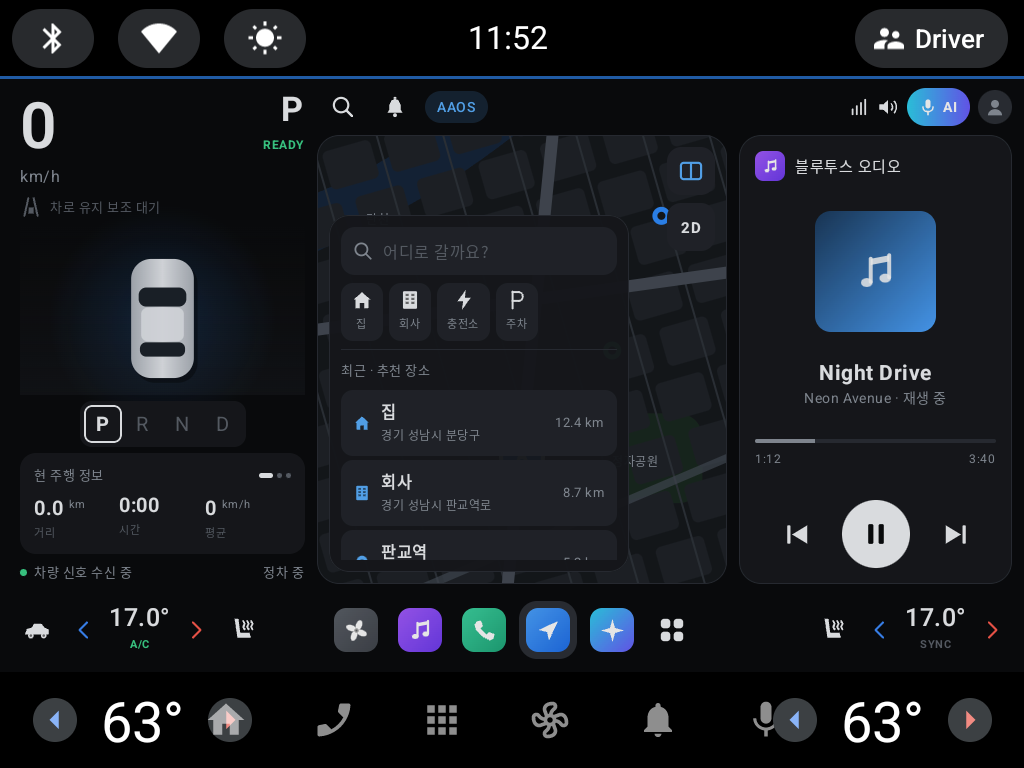
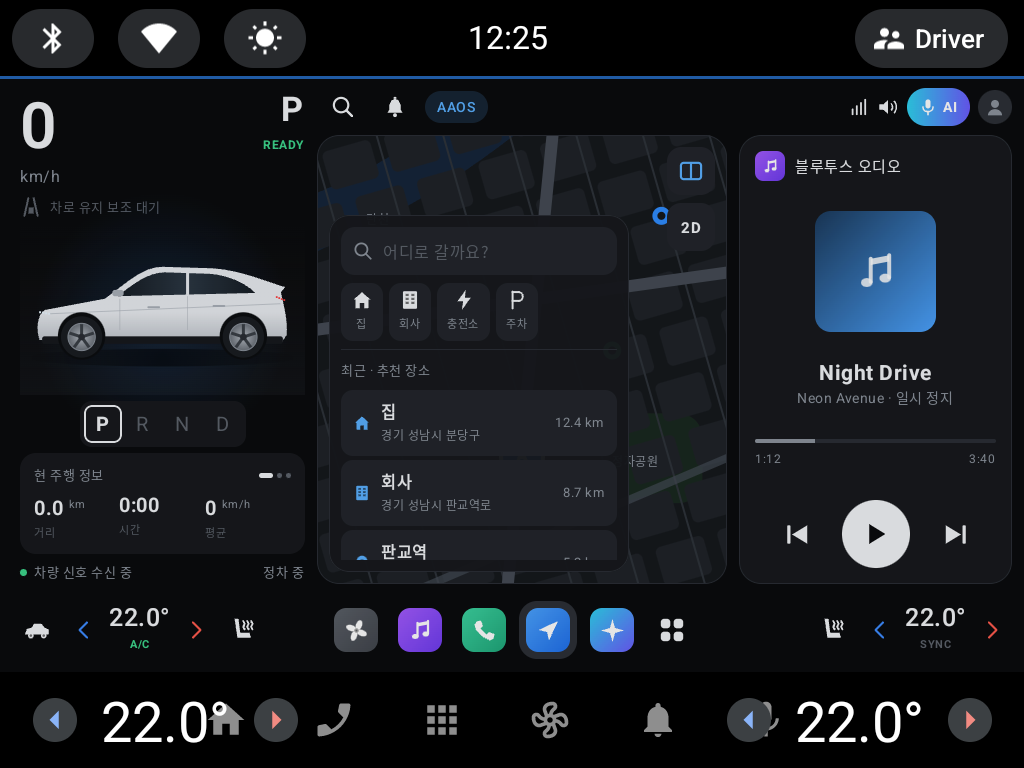
내 차 그림을 아이오닉 3 참고 일러스트로, 에뮬레이터 공조를 태블릿과 같게 (22.0°C, 섭씨)
- ui/CarArt.kt: 공개 제원 비율로 그린 옆모습(P)·윗모습(D/R), 픽셀 조명, 모스 부호 점
- tools/emulator_defaults.py: 운전석·조수석 22.0°C, SystemUI 표시 단위 섭씨
- spike 테스트가 화씨 표시를 가정하던 것을 표시 단위를 읽어 계산하게 수정 (섭씨·화씨 모두 통과)

diff --git a/ivi-app/app/src/main/java/dev/opencabin/ivi/ui/CarArt.kt b/ivi-app/app/src/main/java/dev/opencabin/ivi/ui/CarArt.kt
@@ -1,0 +1,158 @@
+package dev.opencabin.ivi.ui
+
+import androidx.compose.ui.geometry.CornerRadius
+import androidx.compose.ui.geometry.Offset
+import androidx.compose.ui.geometry.Size
+import androidx.compose.ui.graphics.Brush
+import androidx.compose.ui.graphics.Color
+import androidx.compose.ui.graphics.Path
+import androidx.compose.ui.graphics.drawscope.DrawScope
+import androidx.compose.ui.graphics.drawscope.Stroke
+import androidx.compose.ui.graphics.drawscope.rotate
+
+/*
+ * 내 차 그림: 소형 전기 해치백 (현대 아이오닉 3 공개 제원·디자인 참고, 사진·제조사 이미지 파일은 쓰지 않고 직접 그린다).
+ *   제원: 길이 4,155 · 폭 1,800 · 높이 1,505 · 휠베이스 2,680 mm (19인치 휠 225/45 R19 → 바퀴 지름 약 685 mm)
+ *   특징: 앞에서 뒤까지 곧게 이어지다 리어 스포일러로 떨어지는 '에어로 해치' 지붕선,
+ *         앞·뒤 픽셀 조명, 엠블럼 자리의 점 4개(모스 부호 H), 넓은 유리 지붕
+ * 좌표는 차 길이 L 에 대한 비율로 둔다 (그래서 어느 크기로도 같은 비율).
+ */
+
+private const val LENGTH_MM = 4155f
+private const val WIDTH_RATIO = 1800f / LENGTH_MM
+private const val HEIGHT_RATIO = 1505f / LENGTH_MM
+private const val AXLE = (LENGTH_MM - 2680f) / 2f / LENGTH_MM // 앞(뒤) 차축 위치 ≈ 0.177
+private const val WHEEL_R = 685f / 2f / LENGTH_MM
+
+private val Glass = Color(0xFF141A21)
+private val PixelWhite = Color(0xFFEAF6FF)
+private val PixelRed = Color(0xFFFF3B3B)
+
+/**
+ * 위에서 본 내 차 (앞이 위). (cx, cy) 는 차 중심, length 는 화면에서의 차 길이.
+ * braking=true 면(후진 등) 뒤 픽셀 조명을 밝게 그린다.
+ */
+fun DrawScope.ioniq3Top(cx: Float, cy: Float, length: Float, body: Color, shade: Color, braking: Boolean = false) {
+    val l = length
+    val w = l * WIDTH_RATIO
+    val left = cx - w / 2
+    val top = cy - l / 2
+    fun at(fx: Float, fy: Float) = Offset(left + w * fx, top + l * fy)
+
+    // 그림자 · 바퀴 (차체 밖으로 살짝 보인다)
+    drawRoundRect(Color.Black.copy(alpha = 0.4f), Offset(left + w * 0.05f, top + l * 0.02f), Size(w, l), CornerRadius(w * 0.3f))
+    listOf(AXLE, 1f - AXLE).forEach { fy ->
+        listOf(-0.04f, 0.88f).forEach { fx ->
+            drawRoundRect(Color(0xFF0D0F12), at(fx, fy - 0.07f), Size(w * 0.16f, l * 0.14f), CornerRadius(w * 0.05f))
+        }
+    }
+    // 차체: 앞은 둥글고 뒤는 각진 해치
+    val bodyPath = Path().apply {
+        moveTo(left + w * 0.18f, top)
+        quadraticBezierTo(left + w * 0.5f, top - l * 0.012f, left + w * 0.82f, top)
+        quadraticBezierTo(left + w, top + l * 0.02f, left + w, top + l * 0.14f)
+        lineTo(left + w, top + l * 0.93f)
+        quadraticBezierTo(left + w, top + l, left + w * 0.86f, top + l)
+        lineTo(left + w * 0.14f, top + l)
+        quadraticBezierTo(left, top + l, left, top + l * 0.93f)
+        lineTo(left, top + l * 0.14f)
+        quadraticBezierTo(left, top + l * 0.02f, left + w * 0.18f, top)
+        close()
+    }
+    drawPath(bodyPath, Brush.horizontalGradient(listOf(shade, body, body, shade), startX = left, endX = left + w))
+    // 사이드 미러
+    drawRoundRect(shade, at(-0.10f, 0.285f), Size(w * 0.13f, l * 0.035f), CornerRadius(w * 0.04f))
+    drawRoundRect(shade, at(0.97f, 0.285f), Size(w * 0.13f, l * 0.035f), CornerRadius(w * 0.04f))
+    // 앞 유리 → 넓은 유리 지붕 → 뒤 유리 (하나로 이어진 어두운 면, 가운데 지붕 골조)
+    val glass = Path().apply {
+        moveTo(at(0.14f, 0.36f).x, at(0.14f, 0.36f).y)
+        quadraticBezierTo(at(0.5f, 0.24f).x, at(0.5f, 0.24f).y, at(0.86f, 0.36f).x, at(0.86f, 0.36f).y)
+        lineTo(at(0.88f, 0.78f).x, at(0.88f, 0.78f).y)
+        quadraticBezierTo(at(0.5f, 0.84f).x, at(0.5f, 0.84f).y, at(0.12f, 0.78f).x, at(0.12f, 0.78f).y)
+        close()
+    }
+    drawPath(glass, Brush.verticalGradient(listOf(Glass, Color(0xFF26313C), Glass), startY = top + l * 0.3f, endY = top + l * 0.82f))
+    drawLine(body.copy(alpha = 0.55f), at(0.13f, 0.40f), at(0.87f, 0.40f), strokeWidth = l * 0.012f)
+    drawLine(body.copy(alpha = 0.55f), at(0.12f, 0.62f), at(0.88f, 0.62f), strokeWidth = l * 0.010f)
+    // 리어 스포일러 끝선
+    drawLine(shade, at(0.10f, 0.865f), at(0.90f, 0.865f), strokeWidth = l * 0.012f)
+    // 앞 픽셀 조명 + 가운데 점 4개 (모스 부호 H)
+    pixelRow(at(0.08f, 0.012f), w * 0.84f, l * 0.018f, 12, PixelWhite)
+    repeat(4) { i -> drawCircle(PixelWhite.copy(alpha = 0.9f), l * 0.006f, at(0.41f + i * 0.06f, 0.06f)) }
+    // 뒤 픽셀 조명
+    pixelRow(at(0.08f, 0.968f), w * 0.84f, l * 0.018f, 12, if (braking) PixelRed else PixelRed.copy(alpha = 0.65f))
+}
+
+/** 옆에서 본 내 차 (앞이 왼쪽). 정차(P) 화면에서 크게 보여 준다. (cx, groundY) 는 차 가운데 아래(바닥), length 는 차 길이. */
+fun DrawScope.ioniq3Side(cx: Float, groundY: Float, length: Float, body: Color, shade: Color) {
+    val l = length
+    val x0 = cx - l / 2
+    fun p(fx: Float, fy: Float) = Offset(x0 + l * fx, groundY - l * fy) // fy: 바닥에서 위로 (L 비율)
+    val roof = HEIGHT_RATIO
+
+    // 바닥 그림자
+    drawOval(Brush.radialGradient(listOf(Color.Black.copy(alpha = 0.55f), Color.Transparent), center = p(0.5f, 0f), radius = l * 0.55f),
+        topLeft = p(-0.04f, 0.035f), size = Size(l * 1.08f, l * 0.07f))
+
+    // 차체 실루엣: 짧은 앞, 곧은 지붕선, 스포일러로 떨어지는 뒤
+    val bodyPath = Path().apply {
+        moveTo(p(0.01f, 0.07f).x, p(0.01f, 0.07f).y)
+        cubicTo(p(-0.005f, 0.11f).x, p(-0.005f, 0.11f).y, p(0.0f, 0.17f).x, p(0.0f, 0.17f).y, p(0.03f, 0.19f).x, p(0.03f, 0.19f).y)
+        lineTo(p(0.27f, 0.235f).x, p(0.27f, 0.235f).y) // 보닛 끝 (앞 유리 시작)
+        cubicTo(p(0.36f, 0.30f).x, p(0.36f, 0.30f).y, p(0.42f, roof).x, p(0.42f, roof).y, p(0.50f, roof).x, p(0.50f, roof).y)
+        lineTo(p(0.70f, roof - 0.006f).x, p(0.70f, roof - 0.006f).y) // 곧은 지붕
+        cubicTo(p(0.80f, roof - 0.012f).x, p(0.80f, roof - 0.012f).y, p(0.90f, 0.31f).x, p(0.90f, 0.31f).y, p(0.975f, 0.285f).x, p(0.975f, 0.285f).y) // 스포일러로 떨어지는 지붕
+        lineTo(p(0.99f, 0.282f).x, p(0.99f, 0.282f).y) // 스포일러 끝
+        lineTo(p(0.972f, 0.262f).x, p(0.972f, 0.262f).y)
+        cubicTo(p(0.985f, 0.20f).x, p(0.985f, 0.20f).y, p(1.0f, 0.15f).x, p(1.0f, 0.15f).y, p(0.995f, 0.09f).x, p(0.995f, 0.09f).y)
+        lineTo(p(0.975f, 0.06f).x, p(0.975f, 0.06f).y)
+        close()
+    }
+    drawPath(bodyPath, Brush.verticalGradient(listOf(body, body, shade), startY = groundY - l * roof, endY = groundY))
+    // 아래 검은 하단 (휠 아치 · 사이드 실)
+    drawRoundRect(Color(0xFF16191D), p(0.02f, 0.085f), Size(l * 0.96f, l * 0.03f), CornerRadius(l * 0.01f))
+
+    // 옆 유리 (B 필러로 나눔)
+    val window = Path().apply {
+        moveTo(p(0.32f, 0.245f).x, p(0.32f, 0.245f).y)
+        cubicTo(p(0.38f, 0.29f).x, p(0.38f, 0.29f).y, p(0.44f, roof - 0.022f).x, p(0.44f, roof - 0.022f).y, p(0.51f, roof - 0.022f).x, p(0.51f, roof - 0.022f).y)
+        lineTo(p(0.69f, roof - 0.028f).x, p(0.69f, roof - 0.028f).y)
+        cubicTo(p(0.77f, roof - 0.034f).x, p(0.77f, roof - 0.034f).y, p(0.84f, 0.29f).x, p(0.84f, 0.29f).y, p(0.87f, 0.258f).x, p(0.87f, 0.258f).y)
+        lineTo(p(0.32f, 0.245f).x, p(0.32f, 0.245f).y)
+        close()
+    }
+    drawPath(window, Brush.horizontalGradient(listOf(Glass, Color(0xFF2B3743), Glass), startX = x0 + l * 0.3f, endX = x0 + l * 0.9f))
+    drawLine(body, p(0.60f, roof - 0.02f), p(0.60f, 0.25f), strokeWidth = l * 0.012f)
+    // 문 경계 · 손잡이 · 허리선
+    drawLine(shade.copy(alpha = 0.7f), p(0.33f, 0.235f), p(0.33f, 0.11f), strokeWidth = l * 0.003f)
+    drawLine(shade.copy(alpha = 0.7f), p(0.60f, 0.245f), p(0.60f, 0.11f), strokeWidth = l * 0.003f)
+    drawLine(shade.copy(alpha = 0.8f), p(0.05f, 0.175f), p(0.97f, 0.215f), strokeWidth = l * 0.003f)
+    drawRoundRect(shade, p(0.44f, 0.205f), Size(l * 0.05f, l * 0.008f), CornerRadius(l * 0.004f))
+    drawRoundRect(shade, p(0.70f, 0.21f), Size(l * 0.05f, l * 0.008f), CornerRadius(l * 0.004f))
+    // 사이드 미러
+    drawRoundRect(shade, p(0.30f, 0.27f), Size(l * 0.045f, l * 0.025f), CornerRadius(l * 0.01f))
+
+    // 앞 픽셀 조명 · 뒤 픽셀 조명
+    repeat(4) { i -> drawRect(PixelWhite, p(0.008f + i * 0.012f, 0.185f - i * 0.002f), Size(l * 0.008f, l * 0.008f)) }
+    repeat(4) { i -> drawRect(PixelRed, p(0.952f + i * 0.01f, 0.245f - i * 0.004f), Size(l * 0.007f, l * 0.007f)) }
+
+    // 바퀴 (에어로 휠)
+    listOf(AXLE, 1f - AXLE).forEach { fx ->
+        val c = p(fx, WHEEL_R)
+        drawCircle(Color(0xFF0B0D10), l * (WHEEL_R + 0.012f), p(fx, WHEEL_R + 0.004f)) // 휠 아치 그늘
+        drawCircle(Color(0xFF1A1D21), l * WHEEL_R, c)
+        drawCircle(Brush.radialGradient(listOf(Color(0xFFB8BEC6), Color(0xFF6B7179)), center = c, radius = l * WHEEL_R * 0.66f), l * WHEEL_R * 0.66f, c)
+        repeat(5) { k ->
+            rotate(k * 72f, c) {
+                drawLine(Color(0xFF3A3F46), c, Offset(c.x, c.y - l * WHEEL_R * 0.62f), strokeWidth = l * 0.012f)
+            }
+        }
+        drawCircle(Color(0xFF2A2E34), l * WHEEL_R * 0.16f, c)
+        drawCircle(Color(0xFF8C939D), l * WHEEL_R * 0.66f, c, style = Stroke(l * 0.004f))
+    }
+}
+
+private fun DrawScope.pixelRow(start: Offset, width: Float, size: Float, count: Int, color: Color) {
+    val gap = (width - size * count) / (count - 1)
+    repeat(count) { i -> drawRect(color, Offset(start.x + i * (size + gap), start.y), Size(size, size)) }
+}

diff --git a/ivi-app/app/src/main/java/dev/opencabin/ivi/ui/Cluster.kt b/ivi-app/app/src/main/java/dev/opencabin/ivi/ui/Cluster.kt
@@ -212,12 +212,18 @@ private fun DrivingView(state: VehicleState, modifier: Modifier) {
             }
         }
 
-        val egoScale = if (state.gear == Gear.PARK) 0.22f else 0.15f
-        val egoY = if (state.gear == Gear.PARK) h * 0.55f else yAt(0.08f) - w * egoScale
+        // 내 차 (CarArt.kt): 정차(P)면 옆모습을 크게, 주행·후진이면 위에서 본 모습
+        val body = Color(0xFFE9ECF0)
+        val shade = Color(0xFFA9B0B9)
         if (state.gear == Gear.PARK) {
-            drawCircle(Brush.radialGradient(listOf(IviColors.Accent.copy(alpha = 0.18f), Color.Transparent), center = Offset(cx, egoY), radius = w * 0.4f), w * 0.4f, Offset(cx, egoY))
+            val length = minOf(w * 0.88f, h * 1.9f)
+            val ground = h * 0.5f + length * 0.19f
+            drawCircle(Brush.radialGradient(listOf(IviColors.Accent.copy(alpha = 0.16f), Color.Transparent), center = Offset(cx, ground - length * 0.15f), radius = w * 0.45f), w * 0.45f, Offset(cx, ground - length * 0.15f))
+            ioniq3Side(cx, ground, length, body, shade)
+        } else {
+            val length = w * 0.15f * 1.9f
+            ioniq3Top(cx, yAt(0.08f) - length / 2, length, body, shade, braking = state.gear == Gear.REVERSE)
         }
-        car(cx, egoY, w * egoScale, Color(0xFFE6E9EE), Color(0xFFAEB4BC))
     }
 }
 

diff --git a/ivi-tests/tests/test_spike_aaos.py b/ivi-tests/tests/test_spike_aaos.py
@@ -2,12 +2,14 @@
 
 자체 IVI 앱을 만들기 전에, AAOS 기본 SystemUI 의 하단 HVAC 바로
 '차량 신호 → UI', 'UI 조작 → 차량 신호', '속도·기어 → 주행 상태' 가 실제로 이어지는지 확인한다.
-화면 표시는 화씨(°F)라서 정수로 딱 떨어지는 섭씨 값(25.0 → 77°, 20.0 → 68°)을 쓴다.
+SystemUI 표시 단위는 VHAL 의 HVAC_TEMPERATURE_DISPLAY_UNITS 를 따른다. 에뮬레이터 기본은 화씨(25.0 → 77°)이고,
+7단계에서 태블릿과 같게 섭씨(25.0 → 25.0°)로 바꿔 쓰기도 해서, 기대 글자는 지금 표시 단위로 계산한다.
+화씨에서도 정수로 딱 떨어지는 섭씨 값(25.0, 20.0)을 쓴다.
 """
 import pytest
 from appium.webdriver.common.appiumby import AppiumBy
 
-from ivi.vehicle import Area, DrivingState, Prop
+from ivi.vehicle import Area, DrivingState, Prop, TempUnit
 from ivi.waits import wait_until
 
 pytestmark = pytest.mark.aaos
@@ -30,10 +32,18 @@ def driver_temp_label(driver):
     return temp_label(driver, "driver")
 
 
+def expected_label(vehicle, celsius):
+    """SystemUI 가 보여 줄 글자: 섭씨면 '25.0°', 화씨면 '77°'."""
+    if vehicle.get_property(Prop.HVAC_TEMPERATURE_DISPLAY_UNITS) == TempUnit.CELSIUS:
+        return f"{celsius:.1f}°"
+    return f"{round(celsius * 9 / 5 + 32)}°"
+
+
 @pytest.mark.spike
-@pytest.mark.parametrize("celsius, label", [(25.0, "77°"), (20.0, "68°")])
-def test_hvac_signal_is_shown_on_ui(driver, vehicle, celsius, label):
+@pytest.mark.parametrize("celsius", [25.0, 20.0])
+def test_hvac_signal_is_shown_on_ui(driver, vehicle, celsius):
     """하위 → 상위: 운전석 설정 온도를 property 로 바꾸면 하단 HVAC 바 표시가 따라 바뀐다."""
+    label = expected_label(vehicle, celsius)
     vehicle.set_property(Prop.HVAC_TEMPERATURE_SET, celsius, Area.DRIVER)
     wait_until(lambda: driver_temp_label(driver) == label, what=f"운전석 온도 표시 {label}")
 
@@ -46,14 +56,15 @@ def test_hvac_signal_is_shown_on_ui(driver, vehicle, celsius, label):
 def test_hvac_ui_tap_changes_signal(driver, vehicle, side, button, delta):
     """상위 → 하위: 화면의 온도 ▲/▼ 를 한 번 누르면 실제 property 값이 한 단계(0.5°C) 바뀐다."""
     area = SIDES[side]
+    start = expected_label(vehicle, 20.0)
     vehicle.set_property(Prop.HVAC_TEMPERATURE_SET, 20.0, area)
-    wait_until(lambda: temp_label(driver, side) == "68°", what=f"{side} 시작 온도 표시 68°")
+    wait_until(lambda: temp_label(driver, side) == start, what=f"{side} 시작 온도 표시 {start}")
 
     driver.find_element(*hvac(side, button)).click()
 
     expected = 20.0 + delta
     wait_until(lambda: vehicle.get_property(Prop.HVAC_TEMPERATURE_SET, area) == expected, what=f"{side} 설정 온도 {expected}°C")
-    wait_until(lambda: temp_label(driver, side) != "68°", what=f"{side} 온도 표시 변경")
+    wait_until(lambda: temp_label(driver, side) != start, what=f"{side} 온도 표시 변경")
 
 
 @pytest.mark.spike

diff --git a/ivi-tests/tools/emulator_defaults.py b/ivi-tests/tools/emulator_defaults.py
@@ -1,0 +1,42 @@
+"""AAOS 에뮬레이터의 공조 값을 태블릿(Mock)과 같게 맞춘다: 운전석·조수석 22.0°C, 표시 단위 섭씨.
+
+    python tools/emulator_defaults.py [--serial emulator-5554] [--celsius 22.0] [--fahrenheit]
+
+에뮬레이터 VHAL 은 켤 때마다 기본값(화씨 표시, 좌석마다 다른 온도)으로 돌아간다. 데모·스크린샷 전에 한 번 돌린다.
+테스트는 이 도구에 기대지 않는다 (app 픽스처가 테스트마다 22.0°C 로 맞추고, spike 테스트는 표시 단위를 읽어 기대 글자를 계산한다).
+"""
+import argparse
+import subprocess
+import sys
+
+VHAL = "android.hardware.automotive.vehicle.IVehicle/default"
+HVAC_TEMPERATURE_SET = 0x15600503
+HVAC_TEMPERATURE_DISPLAY_UNITS = 0x1140050E
+CELSIUS, FAHRENHEIT = 0x30, 0x31
+SEATS = {"운전석": 0x1, "조수석": 0x4}
+
+
+def vhal_set(serial, prop, kind, value, area=0):
+    out = subprocess.run(["adb", "-s", serial, "shell", "dumpsys", VHAL, "--set", hex(prop), kind, str(value), "-a", str(area)],
+                         capture_output=True, text=True, encoding="utf-8", errors="replace").stdout
+    if "failed" in out.lower():
+        raise SystemExit(f"VHAL --set {hex(prop)} 실패: {out.strip()[:200]} (adb root 가 필요하다)")
+
+
+def main():
+    parser = argparse.ArgumentParser()
+    parser.add_argument("--serial", default="emulator-5554")
+    parser.add_argument("--celsius", type=float, default=22.0)
+    parser.add_argument("--fahrenheit", action="store_true", help="표시 단위를 화씨로 (에뮬레이터 기본)")
+    args = parser.parse_args()
+
+    subprocess.run(["adb", "-s", args.serial, "root"], capture_output=True)
+    for name, area in SEATS.items():
+        vhal_set(args.serial, HVAC_TEMPERATURE_SET, "-f", args.celsius, area)
+        print(f"  {name} {args.celsius:.1f}°C")
+    vhal_set(args.serial, HVAC_TEMPERATURE_DISPLAY_UNITS, "-i", FAHRENHEIT if args.fahrenheit else CELSIUS)
+    print(f"  표시 단위 {'화씨' if args.fahrenheit else '섭씨'}")
+
+
+if __name__ == "__main__":
+    sys.exit(main())

diff --git a/ivi-tests/ivi/vehicle.py b/ivi-tests/ivi/vehicle.py
@@ -34,6 +34,12 @@ class Prop:
     PERF_VEHICLE_SPEED = 0x11600207   # float m/s, 읽기 전용
     GEAR_SELECTION = 0x11400400       # int32, 읽기 전용
     HVAC_TEMPERATURE_SET = 0x15600503  # float °C, 좌석별 읽기/쓰기
+    HVAC_TEMPERATURE_DISPLAY_UNITS = 0x1140050E  # int32 VehicleUnit: 0x30 섭씨, 0x31 화씨 (SystemUI 표시 단위)
+
+
+class TempUnit:
+    CELSIUS = 0x30
+    FAHRENHEIT = 0x31
 
 
 class Gear:

diff --git a/docs/phase7-pleos.md b/docs/phase7-pleos.md
@@ -46,6 +46,29 @@
 |---|---|
 | ![voice](images/p7-voice.png) | ![reverse](images/p7-reverse.png) |
 
+### 내 차 그림 (아이오닉 3 참고)
+
+주행 정보의 내 차는 **아이오닉 3** 의 공개 제원·디자인을 참고해 Canvas 로 직접 그렸다 (`ui/CarArt.kt`). 제조사 사진·이미지 파일은 쓰지 않는다.
+
+| 근거 (공개 자료) | 그림에 반영 |
+|---|---|
+| 길이 4,155 · 폭 1,800 · 높이 1,505 · 휠베이스 2,680 mm, 19인치 225/45 R19 | 모든 좌표를 차 길이 비율로 계산 (차축 위치 0.177, 바퀴 지름 0.165) |
+| '에어로 해치': 지붕선이 곧게 가다 리어 스포일러로 떨어짐 (Cd 0.263) | 옆모습 지붕선 · 스포일러 끝 |
+| 픽셀 조명, 엠블럼 대신 모스 부호 'H' 점 4개 | 앞·뒤 픽셀 줄, 앞 가운데 점 4개 |
+
+- P(정차): 옆모습을 크게. D(주행)·R(후진): 위에서 본 모습 (R 이면 뒤 픽셀 조명이 밝아진다). 주변 차는 회색 일반 차.
+- 출처: [Hyundai newsroom — IONIQ 3](https://www.hyundai.com/content/hyundai/worldwide/en/newsroom/detail/hyundai-motor-introduces-ioniq-3-aero-hatch-elevates-ev-technology-for-simple%252C-spacious-and-intuitive-mobility-0000001159.html),
+  [Electrifying — Morse 'H'](https://www.electrifying.com/blog/article/inspect-the-morse-new-hyundai-ioniq-3-sends-coded-message)
+
+### 에뮬레이터 공조 값을 태블릿과 같게
+
+에뮬레이터 VHAL 은 켤 때마다 기본값(SystemUI 화씨 표시 61°, 좌석 16~17°C)으로 시작한다. 태블릿(Mock)은 22.0°C 섭씨다.
+`python tools/emulator_defaults.py` 가 운전석·조수석 22.0°C, 표시 단위 섭씨(`HVAC_TEMPERATURE_DISPLAY_UNITS` = 0x30)로 맞춘다.
+
+- 이렇게 바꾸자 1단계 spike 테스트 4개가 실패했다: SystemUI 표시를 **화씨로 가정**하고 `'77°'`, `'68°'` 를 기다리고 있었다.
+  → 표시 단위를 VHAL 에서 읽어 기대 글자를 계산하게 고쳤다 (섭씨 `'25.0°'`, 화씨 `'77°'`). **두 단위 모두에서 5 passed, 1 xfailed** 확인.
+- 섭씨 글자(`22.0°`)가 더 길어 시스템 바 운전석 온도가 홈 버튼과 더 많이 겹친다 — 1단계에서 찾은 SystemUI 결함(xfail)이 그대로 있다.
+
 ## 3. AI 어시스턴트 (`assistant/CabinAssistant.kt`)
 
 LLM 대신 규칙으로 공개된 동작 방식을 흉내 냈다. 화면(Compose)과 분리한 순수 Kotlin 이라 **JVM 단위 테스트**로 검증한다.

diff --git a/README.md b/README.md
@@ -25,7 +25,7 @@ ivi-tests/
   ivi/                adb · 대기 · 차량 어댑터(AaosVehicle / MockVehicle) · 기기 · 화면 객체 · 결과 기록 · 격리 목록
   tests/              기기 E2E: smoke / sanity / regression (공조·주행·미디어·내비·라디오·전화·설정·후방 카메라·음성·AI 어시스턴트·화면 틀), spike(1단계), conftest.py
   unit/               프레임워크 단위 테스트 (기기 없이)
-  tools/              run_bench.py (기기 병렬), flaky_report.py (통계), install_app.py (같은 APK 면 건너뜀)
+  tools/              run_bench.py (기기 병렬), flaky_report.py (통계), install_app.py (같은 APK 면 건너뜀), emulator_defaults.py (에뮬레이터 공조 22.0°C · 섭씨)
   quarantine.txt      격리 목록
 .github/workflows/    ivi-ci.yml
 docs/                 단계별 설계·검증 기록
@@ -41,6 +41,7 @@ docs/                 단계별 설계·검증 기록
    C:\android\emulator\emulator.exe -avd OpenCabin_AAOS_34 -writable-system -no-snapshot -no-boot-anim
    ```
    앱 빌드와 priv-app 설치는 [docs/phase2-app.md](docs/phase2-app.md) 참고.
+   공조 값을 태블릿과 같게(22.0°C, 섭씨 표시) 맞추려면 `python ivi-tests/tools/emulator_defaults.py`.
 2. Appium 서버
    ```powershell
    $env:ANDROID_HOME = "C:\android"; appium --address 127.0.0.1 --port 4723
